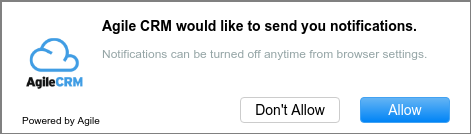
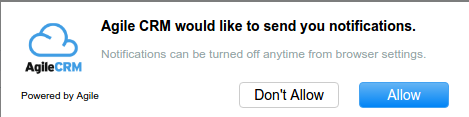
added push webrule as a template

diff --git a/agile-frontend/WebContent/misc/modal-templates/pushnoty/pushnoty.html b/agile-frontend/WebContent/misc/modal-templates/pushnoty/pushnoty.html
@@ -17,9 +17,16 @@
 	.notification-window {
     	padding-bottom: 20px;
 	}
-	.agilecrm-branding {
-    	float: right !important;
+    .agilecrm-branding{
+        display: none !important;
+    }
+	.agilecrm-branding-btm {
+    float: right !important;
 	margin-top: 8px !important;
+    display: block !important;
+    font-size: 10px;
+    font-family: Arial !important;
+    line-height: 1.2em !important;
 	}	
 
 	}
@@ -32,7 +39,7 @@
 	}
 	.image-wrapper {
     float: left;
-    margin: 30px 15px 0px 0px !important;
+    margin: 15px 15px 0px 0px !important;
     padding: 0 !important;
 	}
 	.image-wrapper img {
@@ -44,7 +51,6 @@
 	}
 	.title {
     font-size: 14px;
-    font-weight: 700;
     line-height: 1.4em;
     font-family: 'Open Sans', sans-serif;
 	}
@@ -89,7 +95,7 @@
 	.agilecrm-branding {
     float: left;
     font-size: 10px;
-    margin-top: -8px;
+    margin-top: 8px;
     font-family: Arial !important;
     line-height: 1.2em !important;
 	}
@@ -110,13 +116,14 @@
 <div id="floating-opt-in" class="notification notification-window">
 <div class="inner-wrapper">
 <div class="image-wrapper"><img class="notification-image logo-preview-notification" src="https://agilecrm.s3.amazonaws.com/editor/notification/santhoshkumar/ttvpnf5y_png_1470311035869.png" /></div>
-<div class="text"><span class="title" id="customize_title_preview">Agile CRM would like to send you notifications.</span>
+<div class="text"><strong><span class="title" id="customize_title_preview">Agile CRM would like to send you notifications.</span></strong>
 <p class="message" id="customize_subtitle_preview">Notifications can be turned off anytime from browser settings.</p>
 </div>
 <div style="clear: both;">
+<div class="agilecrm-branding"><span> <a href="https://www.agilecrm.com/" target="_blank" style="text-decoration: none; color: black;"> Powered by Agile </a> </span></div>
 <div class="button"><a class="btn btn-close" href="#" onclick="dontAllow();">Don't Allow</a> <a class="btn" href="#" onclick="allow();">Allow</a></div>
 <div style="clear: both;"></div>
-<div class="agilecrm-branding"><span> <a href="https://www.agilecrm.com/" target="_blank" style="text-decoration: none; color: black;"> Powered by Agile </a> </span></div>
+<div class="agilecrm-branding-btm" style="display:none"><span> <a href="https://www.agilecrm.com/" target="_blank" style="text-decoration: none; color: black;"> Powered by Agile </a> </span></div>
 </div>
 </div>
 </div>

diff --git a/agile-frontend/WebContent/flatfull/jscore/web-rules/web-rules.js b/agile-frontend/WebContent/flatfull/jscore/web-rules/web-rules.js
@@ -43,7 +43,7 @@ function chainWebRules(el, data, isNew, actions)
 		$('#twilio_call_setup').hide();
 		console.log(value);
 	
-		if(value == "MODAL_POPUP" || value == "CORNER_NOTY" || value == "CALL_POPUP" || value == "REQUEST_PUSH_POPUP")
+		if(value == "MODAL_POPUP" || value == "CORNER_NOTY" || value == "CALL_POPUP")
 			{
 				if(value == "MODAL_POPUP"  || value=="CALL_POPUP" || value == "REQUEST_PUSH_POPUP")
 				$("#tiny_mce_webrules_link", self).show();
@@ -65,6 +65,11 @@ function chainWebRules(el, data, isNew, actions)
 			return;
 			} else if(value == "SITE_BAR") {
 				loadSavedTemplate("bar/sitebar.html");
+				$("#tiny_mce_webrules_link", self).show();
+				self.find(".web-rule-preview").show();
+				return;
+			}else if(value == "REQUEST_PUSH_POPUP"){
+				loadSavedTemplate("pushnoty/pushnoty.html");
 				$("#tiny_mce_webrules_link", self).show();
 				self.find(".web-rule-preview").show();
 				return;
@@ -107,11 +112,12 @@ var Web_Rules_Event_View = Base_Model_View.extend({
 					for(var i=0;i<action_count;i++){
 						var actionSelected = $($('#action select')[i]).val();
 
-						if(actionSelected === 'CALL_POPUP' || actionSelected === 'MODAL_POPUP' || actionSelected === 'SITE_BAR'){
+						if(actionSelected === 'CALL_POPUP' || actionSelected === 'MODAL_POPUP' || actionSelected === 'SITE_BAR' || actionSelected === 'REQUEST_PUSH_POPUP'){
 							var listOfOptions = $(htmlContent).find('#action select optgroup option');
 							listOfOptions[0].remove();//MODAL_POPUP
 							listOfOptions[2].remove();//CALL_POPUP
 							listOfOptions[3].remove();//SITE_BAR
+							listOfOptions[3].remove();//REQUEST_PUSH_POPUP
 						}
 					}
 					chainWebRules($(htmlContent)[0], undefined, true);
@@ -199,8 +205,11 @@ var Web_Rules_Event_View = Base_Model_View.extend({
 					}
 					loadTinyMCE("callwebrule-code");
 					return;
-				} else if($('#agile-bar-code').val() !== "" && $('#action select').val()=='SITE_BAR') {
+				} else if($('#agile-bar-code').val() !== "" && $('#action select').val()=='SITE_BAR'){
 					loadTinyMCE("agile-bar-code");
+					return;
+				}else if($('#agile-push-noty-code').val() !== "" && $('#action select').val() == 'REQUEST_PUSH_POPUP') {
+					loadTinyMCE("agile-push-noty-code");
 					return;
 				}
 				var strWindowFeatures = "height=650, width=800,menubar=no,location=yes,resizable=yes,scrollbars=yes,status=yes";

diff --git a/agile-frontend/WebContent/flatfull/tpl/web-rules/web-reports-add.html b/agile-frontend/WebContent/flatfull/tpl/web-rules/web-reports-add.html
@@ -544,7 +544,7 @@
  													</small>
 													<textarea  cols="" name="webrule-information-field" class="information confirmation CORNER_NOTY span5 required w-full" rows="10" placeholder="{{agile_lng_translate 'web-rules' 'paste-html-context'}}"></textarea>
 													<textarea  cols="" name="webrule-custom-html" id="tinyMCEhtml_email" class="custom_html required MODAL_POPUP w-full form-control" rows="10" placeholder="{{agile_lng_translate 'web-rules' 'paste-html-context'}}"></textarea>
-													<textarea  cols="" name="webrule-custom-html" id="tinyMCEhtml_email" class="custom_html required REQUEST_PUSH_POPUP w-full form-control" rows="10" placeholder="{{agile_lng_translate 'web-rules' 'paste-html-context'}}"></textarea>
+													<textarea  cols="" name="webrule-custom-html" id="agile-push-noty-code" class="custom_html required REQUEST_PUSH_POPUP w-full form-control" rows="10" placeholder="{{agile_lng_translate 'web-rules' 'paste-html-context'}}"></textarea>
 													<textarea  cols="" name="webrule-custom-html" id="callwebrule-code"  class="custom_html required CALL_POPUP w-full form-control" rows="10" ></textarea>
 <textarea  cols="" name="webrule-javascript" class="code  JAVA_SCRIPT form-control w-full required" rows="10" placeholder="">function agile_js_code_exec() {
     // Copy your code here

diff --git a/agile-core-classes/src/com/agilecrm/webrules/WebrulePushPopup.java b/agile-core-classes/src/com/agilecrm/webrules/WebrulePushPopup.java
@@ -25,9 +25,9 @@ public class WebrulePushPopup {
 		List<WebRule> webRulesList = new ArrayList<WebRule>();
 		hostName = hostName.toUpperCase();
 
-		String html = "<html lang=\"en\" data-modal-type=\"agile-modal-xs push-xs\" data-modal-version=\"2\" >\n<head>\n<meta http-equiv=\"content-type\" content=\"text/html;charset=utf-8\" />\n<title>Popup</title>\n<link\n  href=\"https://fonts.googleapis.com/css?family=Varela:400|Montserrat:700\"\n  rel=\"stylesheet\" type=\"text/css\">\n<style type=\"text/css\">\n\n\t@media (max-width:320px){\n\t.image-wrapper{\n\t    display: none;\n\t}\n\t.button {\n    \tfloat: left !important;\n\t}\n\t.notification-window {\n    \tpadding-bottom: 20px;\n\t}\n\t.agilecrm-branding {\n    \tfloat: right !important;\n\tmargin-top: 8px !important;\n\t}\t\n\n\t}\n\t\n\t.notification-window {\n\t    background-color: white;\n    \t}\n\t.inner-wrapper {\n    padding: 0 20px 10px 20px;\n\t}\n\t.image-wrapper {\n    float: left;\n    margin: 15px 15px 0px 0px !important;\n    padding: 0 !important;\n\t}\n\t.image-wrapper img {\n    height: 65px;\n    width: 65px;\n\t}\n\t.text {\n    padding: 15px 0 0 0 !important;\n\t}\n\t.title {\n    font-size: 14px;\n    line-height: 1.4em;\n    font-family: 'Open Sans', sans-serif;\n\t}\n\t.message {\n    font-size: 12px !important;\n    line-height: 1.4em !important;\n    margin: 10px 0 !important;\n    padding: 0 !important;\n    text-align: left !important;\n    font-family: 'Open Sans', sans-serif !important;\n    word-break: break-word;\n    color: #95a5a6;\n\t}\n\t.button {\n    float: right ;\n    margin: 0 !important;\n    padding: 0 !important;\n\t}\n\t.btn.btn-close {\n    background: #FFFFFF !important;\n    color: #000 !important;\n    border-color: #CCCCCC !important;\n    margin-right: 20px !important;\n    width: 100px !important;\n\t}\n\t.btn {\n    width: 90px !important;\n    height: 26px !important;\n    font-size: 14px !important;\n    line-height: 1.1em !important;\n    border-radius: 4px !important;\n    color: #fff !important;\n    background: linear-gradient(to bottom,#64b4f4,#0084f6) !important;\n    border: 1px solid #42a2f2 !important;\n    display: inline-block !important;\n    padding: 5px !important;\n    box-sizing: border-box !important;\n    font-family: Arial !important;\n    text-decoration: blink;\n    text-align: center;\n\t}\n\t.agilecrm-branding {\n    float: left;\n    font-size: 10px;\n    margin-top: 8px;\n    font-family: Arial !important;\n    line-height: 1.2em !important;\n\t}\n\t.agilecrm-branding img {\n    vertical-align: bottom;\n    width: 14px;\n    height: 14px;\n    padding-right: 2px;\n    }\n\n</style>\n</head>\n<body >\n<div id=\"popup\" style=\"margin: 0px auto;max-width: 468px;\">\n<div id=\"popup-body\">\n<div id=\"popup-content\">\n<div>\n<div id=\"floating-opt-in\" class=\"notification notification-window\">\n<div class=\"inner-wrapper\">\n<div class=\"image-wrapper\"><img class=\"notification-image logo-preview-notification\" src=\"https://agilecrm.s3.amazonaws.com/editor/notification/santhoshkumar/ttvpnf5y_png_1470311035869.png\" /></div>\n<div class=\"text\"><strong><span class=\"title\" id=\"customize_title_preview\">"
+		String html = "<html lang=\"en\" data-modal-type=\"agile-modal-xs push-xs\" data-modal-version=\"2\" >\n<head>\n<meta http-equiv=\"content-type\" content=\"text/html;charset=utf-8\" />\n<title>Popup</title>\n<link\n  href=\"https://fonts.googleapis.com/css?family=Varela:400|Montserrat:700\"\n  rel=\"stylesheet\" type=\"text/css\">\n<style type=\"text/css\">\n\n\t@media (max-width:320px){\n\t.image-wrapper{\n\t    display: none;\n\t}\n\t.button {\n    \tfloat: left !important;\n\t}\n\t.notification-window {\n    \tpadding-bottom: 20px;\n\t}\n    .agilecrm-branding{\n        display: none !important;\n    }\n\t.agilecrm-branding-btm {\n    float: right !important;\n\tmargin-top: 8px !important;\n    display: block !important;\n    font-size: 10px;\n    font-family: Arial !important;\n    line-height: 1.2em !important;\n\t}\t\n\n\t}\n\t\n\t.notification-window {\n\t    background-color: white;\n    \t}\n\t.inner-wrapper {\n    padding: 0 20px 10px 20px;\n\t}\n\t.image-wrapper {\n    float: left;\n    margin: 15px 15px 0px 0px !important;\n    padding: 0 !important;\n\t}\n\t.image-wrapper img {\n    height: 65px;\n    width: 65px;\n\t}\n\t.text {\n    padding: 15px 0 0 0 !important;\n\t}\n\t.title {\n    font-size: 14px;\n    line-height: 1.4em;\n    font-family: 'Open Sans', sans-serif;\n\t}\n\t.message {\n    font-size: 12px !important;\n    line-height: 1.4em !important;\n    margin: 10px 0 !important;\n    padding: 0 !important;\n    text-align: left !important;\n    font-family: 'Open Sans', sans-serif !important;\n    word-break: break-word;\n    color: #95a5a6;\n\t}\n\t.button {\n    float: right ;\n    margin: 0 !important;\n    padding: 0 !important;\n\t}\n\t.btn.btn-close {\n    background: #FFFFFF !important;\n    color: #000 !important;\n    border-color: #CCCCCC !important;\n    margin-right: 20px !important;\n    width: 100px !important;\n\t}\n\t.btn {\n    width: 90px !important;\n    height: 26px !important;\n    font-size: 14px !important;\n    line-height: 1.1em !important;\n    border-radius: 4px !important;\n    color: #fff !important;\n    background: linear-gradient(to bottom,#64b4f4,#0084f6) !important;\n    border: 1px solid #42a2f2 !important;\n    display: inline-block !important;\n    padding: 5px !important;\n    box-sizing: border-box !important;\n    font-family: Arial !important;\n    text-decoration: blink;\n    text-align: center;\n\t}\n\t.agilecrm-branding {\n    float: left;\n    font-size: 10px;\n    margin-top: 8px;\n    font-family: Arial !important;\n    line-height: 1.2em !important;\n\t}\n\t.agilecrm-branding img {\n    vertical-align: bottom;\n    width: 14px;\n    height: 14px;\n    padding-right: 2px;\n    }\n\n</style>\n</head>\n<body >\n<div id=\"popup\" style=\"margin: 0px auto;max-width: 468px;\">\n<div id=\"popup-body\">\n<div id=\"popup-content\">\n<div>\n<div id=\"floating-opt-in\" class=\"notification notification-window\">\n<div class=\"inner-wrapper\">\n<div class=\"image-wrapper\"><img class=\"notification-image logo-preview-notification\" src=\"https://agilecrm.s3.amazonaws.com/editor/notification/santhoshkumar/ttvpnf5y_png_1470311035869.png\" /></div>\n<div class=\"text\"><strong><span class=\"title\" id=\"customize_title_preview\">"
 				+ hostName
-				+ " would like to send you notifications.</span></strong>\n<p class=\"message\" id=\"customize_subtitle_preview\">Notifications can be turned off anytime from browser settings.</p>\n</div>\n<div style=\"clear: both;\">\n<div class=\"agilecrm-branding\"><span> <a href=\"https://www.agilecrm.com/\" target=\"_blank\" style=\"text-decoration: none; color: black;\"> Powered by Agile </a> </span></div>\n<div class=\"button\"><a class=\"btn btn-close\" href=\"#\" onclick=\"dontAllow();\">Don't Allow</a> <a class=\"btn\" href=\"#\" onclick=\"allow();\">Allow</a></div>\n<div style=\"clear: both;\"></div>\n</div>\n</div>\n</div>\n</div>\n</div>\n</div>\n</div>\n</body>\n<script>\n\tfunction allow(){\n      window.parent.agile_store_data(\"agile-push-notification\",true);\n var params = \"guid=\" + window.parent.agile_guid.get();\n\n      params = params + \"&email=\" + window.parent.agile_guid.get_email();\n\n      params = params + \"&apiKey=\" + window.parent.agile_id.id;\n\n      params = params + \"&host=\" + window.parent.location.host;\n\n\n\twindow.open( \"https://\"+window.parent.agile_id.getNamespace()+\".agilecrm.com/notification/notification.html?\"+params,\"name\",\"height=325,width=500\");\n window.parent._agile_close_modal();\nreturn false;\n}\n\n\tfunction dontAllow(){\n\twindow.parent._agile_webrule_cookie('request-push-popup', 'agile-pushpopup-webrule', 5);\n        window.parent._agile_close_modal();\nreturn false;\n}\n</script>\n</html>";
+				+ " would like to send you notifications.</span></strong>\n<p class=\"message\" id=\"customize_subtitle_preview\">Notifications can be turned off anytime from browser settings.</p>\n</div>\n<div style=\"clear: both;\">\n<div class=\"agilecrm-branding\"><span> <a href=\"https://www.agilecrm.com/\" target=\"_blank\" style=\"text-decoration: none; color: black;\"> Powered by Agile </a> </span></div>\n<div class=\"button\"><a class=\"btn btn-close\" href=\"#\" onclick=\"dontAllow();\">Don't Allow</a> <a class=\"btn\" href=\"#\" onclick=\"allow();\">Allow</a></div>\n<div style=\"clear: both;\"></div>\n<div class=\"agilecrm-branding-btm\" style=\"display:none\"><span> <a href=\"https://www.agilecrm.com/\" target=\"_blank\" style=\"text-decoration: none; color: black;\"> Powered by Agile </a> </span></div>\n</div>\n</div>\n</div>\n</div>\n</div>\n</div>\n</div>\n</body>\n<script>\n\tfunction allow(){\n      window.parent.agile_store_data(\"agile-push-notification\",true);\n var params = \"guid=\" + window.parent.agile_guid.get();\n\n      params = params + \"&email=\" + window.parent.agile_guid.get_email();\n\n      params = params + \"&apiKey=\" + window.parent.agile_id.id;\n\n      params = params + \"&host=\" + window.parent.location.host;\n\n\n\twindow.open( \"https://\"+window.parent.agile_id.getNamespace()+\".agilecrm.com/notification/notification.html?\"+params,\"name\",\"height=325,width=500\");\n window.parent._agile_close_modal();\nreturn false;\n}\n\n\tfunction dontAllow(){\n\twindow.parent._agile_webrule_cookie('request-push-popup', 'agile-pushpopup-webrule', 5);\n        window.parent._agile_close_modal();\nreturn false;\n}\n</script>\n</html>";
 
 		Text text = new Text(html);
 
